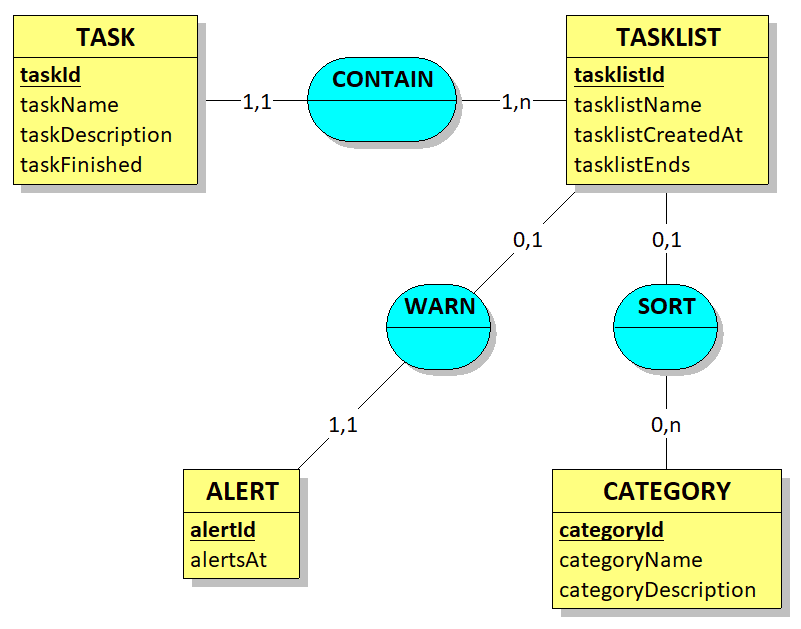
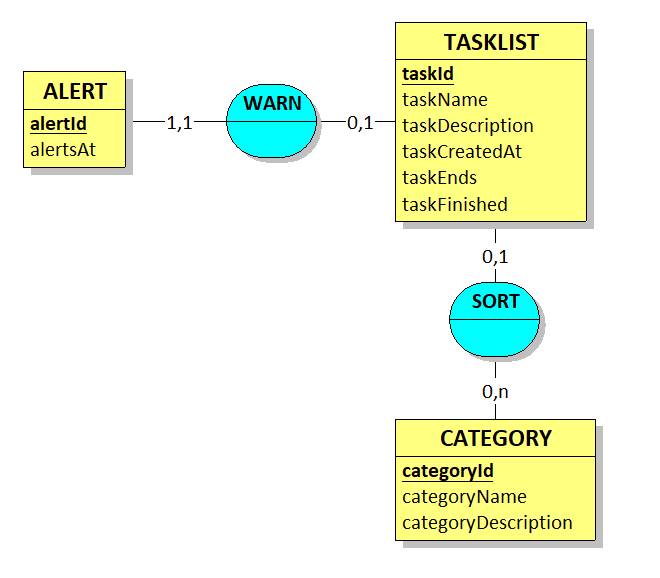
Remove TaskList from DB, rewrite some db related stuff

diff --git a/Sources/app/src/main/java/com/github/antoinejt/atodo/utils/DBUtils.java b/Sources/app/src/main/java/com/github/antoinejt/atodo/utils/DBUtils.java
@@ -7,8 +7,10 @@ import android.database.sqlite.SQLiteDatabase;
 import android.database.sqlite.SQLiteOpenHelper;
 
 import com.github.antoinejt.atodo.dataclasses.TaskItem;
+import com.github.antoinejt.exassert.Preconditions;
 
 import java.util.ArrayList;
+import java.util.Date;
 import java.util.List;
 
 public class DBUtils extends SQLiteOpenHelper {
@@ -16,7 +18,7 @@ public class DBUtils extends SQLiteOpenHelper {
     private final SQLiteDatabase wdb;
 
     public DBUtils(Context context) {
-        super(context, DATABASE_NAME , null, 4);
+        super(context, DATABASE_NAME, null, 5);
         this.wdb = getWritableDatabase();
     }
 
@@ -27,17 +29,11 @@ public class DBUtils extends SQLiteOpenHelper {
                         "taskId INTEGER NOT NULL PRIMARY KEY AUTOINCREMENT," +
                         "taskName TEXT NOT NULL," +
                         "taskDescription TEXT NOT NULL," +
-                        "taskListId INTEGER NOT NULL," +
+                        "taskCreatedAt DATETIME NOT NULL DEFAULT CURRENT_TIMESTAMP," +
+                        "taskEnds DATETIME NOT NULL," +
                         "taskFinished INTEGER NOT NULL DEFAULT 0 CHECK(taskFinished IN (0, 1)))"
         );
 
-        db.execSQL(
-                "CREATE TABLE TaskList (" +
-                        "tasklistId INTEGER NOT NULL PRIMARY KEY AUTOINCREMENT, " +
-                        "tasklistName TEXT NOT NULL," +
-                        "taskListCreatedAt DATETIME NOT NULL," +
-                        "taskListEnds DATETIME NOT NULL)"
-        );
         db.execSQL(
                 "CREATE TABLE Category(" +
                         "categoryId INTEGER NOT NULL PRIMARY KEY AUTOINCREMENT, " +
@@ -54,100 +50,85 @@ public class DBUtils extends SQLiteOpenHelper {
     @Override
     public void onUpgrade(SQLiteDatabase db, int oldVersion, int newVersion) {
         db.execSQL("DROP TABLE IF EXISTS Task");
-        db.execSQL("DROP TABLE IF EXISTS TaskList");
         db.execSQL("DROP TABLE IF EXISTS Category");
         db.execSQL("DROP TABLE IF EXISTS Alert");
         onCreate(db);
     }
 
-    public long createTaskList(String name, String createdAt, String end){
-        // TODO Test if it inserts correct taskListEnds values
+    public long createTask(String name, String description, Date deadline) {
         ContentValues contentValues = new ContentValues();
-        contentValues.put("taskListName", name);
-        contentValues.put("taskListCreatedAt", createdAt);
-        contentValues.put("taskListEnds", end);
-        return wdb.insert("TaskList", null, contentValues);
+        contentValues.put("taskName", name);
+        contentValues.put("taskDescription", description);
+        contentValues.put("taskEnds", deadline.getTime());
+        return wdb.insert("Task", null, contentValues);
     }
 
-    public long createTask(long taskListId, String taskName, String taskDescription) {
-        ContentValues contentValues = new ContentValues();
-        contentValues.put("taskName", taskName);
-        contentValues.put("taskDescription", taskDescription);
-        contentValues.put("taskListId", taskListId);
-        return wdb.insert("Task",null, contentValues);
-    }
-
-    public boolean createCategory(String categoryName, String categoryDescription){
+    public long createCategory(String categoryName, String categoryDescription) {
         ContentValues contentValues = new ContentValues();
         contentValues.put("categoryName", categoryName);
         contentValues.put("categoryDescription", categoryDescription);
-        wdb.insert("Category", null, contentValues);
-        return true;
+        return wdb.insert("Category", null, contentValues);
     }
 
-    public boolean createAlert(String alertsAt){
+    public long createAlert(String alertsAt) {
         ContentValues contentValues = new ContentValues();
         contentValues.put("alertsAt", alertsAt);
-        wdb.insert("Alert", null, contentValues);
-        return true;
+        return wdb.insert("Alert", null, contentValues);
     }
 
-    public Integer deleteTaskList(Integer id) {
-        return wdb.delete("TaskList", "tasklistId = ? ", new String[] { Integer.toString(id) });
+    public boolean deleteCategory(int id) {
+        Preconditions.requiresUnsigned(id);
+        return wdb.delete("Category", "categoryId = ? ", new String[]{Integer.toString(id)}) == 1;
     }
 
-    public Integer deleteCategory(Integer id) {
-        return wdb.delete("Category", "categoryId = ? ", new String[] { Integer.toString(id) });
+    public boolean deleteAlert(int id) {
+        Preconditions.requiresUnsigned(id);
+        return wdb.delete("Alert", "alertId = ? ", new String[]{Integer.toString(id)}) == 1;
     }
 
-    public Integer deleteAlert(Integer id) {
-        return wdb.delete("Alert", "alertId = ? ", new String[] { Integer.toString(id) });
+    public boolean deleteTask(int id) {
+        Preconditions.requiresUnsigned(id);
+        return wdb.delete("Task", "taskId = ? ", new String[]{Integer.toString(id)}) == 1;
     }
 
-    public Integer deleteTask(Integer id) {
-        return wdb.delete("Task", "taskId = ? ", new String[] { Integer.toString(id) });
-    }
+    public boolean updateTask(int id, String name, String description, Date deadline, boolean finished) {
+        Preconditions.requiresUnsigned(id);
 
-    public boolean updateTask(int id, String taskName, String taskDescription, String taskFinished) {
         ContentValues contentValues = new ContentValues();
-        contentValues.put("taskName", taskName);
-        contentValues.put("taskDescription", taskDescription);
-        contentValues.put("taskFinished", taskFinished);
-        wdb.update("Task", contentValues, "taskId = ?", new String[] { Integer.toString(id) });
-        return true;
-    }
+        contentValues.put("taskName", name);
+        contentValues.put("taskDescription", description);
+        contentValues.put("taskEnds", deadline.getTime());
+        contentValues.put("taskFinished", finished ? 1 : 0);
 
-    public boolean updateTaskList(int id, String taskName, String taskListCreatedAt, String end) {
-        ContentValues contentValues = new ContentValues();
-        contentValues.put("taskListName", taskName);
-        contentValues.put("taskListCreatedAt", taskListCreatedAt);
-        contentValues.put("taskListEnds", end);
-        wdb.update("TaskList", contentValues, "TaskList.tasklistId = ? ", new String[] { Integer.toString(id) });
-        return true;
+        return wdb.update("Task", contentValues, "taskId = ?", new String[]{Integer.toString(id)}) == 1;
     }
 
     public boolean updateCategory(int id, String categoryName, String categoryDescription) {
+        Preconditions.requiresUnsigned(id);
+
         ContentValues contentValues = new ContentValues();
         contentValues.put("categoryName", categoryName);
         contentValues.put("categoryDescription", categoryDescription);
-        wdb.update("Category", contentValues, "categoryId = ? ", new String[] { Integer.toString(id) });
-        return true;
+
+        return wdb.update("Category", contentValues, "categoryId = ? ", new String[]{Integer.toString(id)}) == 1;
     }
 
     public boolean updateAlert(int id, String alertsAt) {
+        Preconditions.requiresUnsigned(id);
+
         ContentValues contentValues = new ContentValues();
         contentValues.put("alertsAt", alertsAt);
-        wdb.update("Alert", contentValues, "alertId = ? ", new String[] { Integer.toString(id) });
-        return true;
+
+        return wdb.update("Alert", contentValues, "alertId = ? ", new String[]{Integer.toString(id)}) == 1;
     }
 
     public List<TaskItem> getTasks() {
         // wdb.query("Task", new String[] { "taskName", "taskDescription" }, null, null, null, null, null);
-        Cursor res =  wdb.rawQuery("SELECT taskName, taskDescription from Task", null);
+        Cursor res = wdb.rawQuery("SELECT taskName, taskDescription from Task", null);
         res.moveToFirst();
 
         List<TaskItem> taskItems = new ArrayList<>();
-        while(!res.isAfterLast()){
+        while (!res.isAfterLast()) {
             String name = res.getString(res.getColumnIndex("taskName"));
             String description = res.getString(res.getColumnIndex("taskDescription"));
 

diff --git a/Sources/app/src/main/java/com/github/antoinejt/atodo/activities/CreateTaskActivity.java b/Sources/app/src/main/java/com/github/antoinejt/atodo/activities/CreateTaskActivity.java
@@ -50,7 +50,7 @@ public class CreateTaskActivity extends AppCompatActivity implements View.OnClic
         return ((EditText) findViewById(id)).getText().toString();
     }
 
-    public enum TaskCreationStatus {
+    enum TaskCreationStatus {
         OK("Task saved correctly!"),
         EMPTY_FIELDS("Error: Some fields are empty!"),
         DATE_FORMAT("Error: Date format is incorrect!"),
@@ -70,9 +70,6 @@ public class CreateTaskActivity extends AppCompatActivity implements View.OnClic
     private TaskCreationStatus createTask() {
         //TODO Verify getApplicationContext / getBaseContext
         try (DBUtils db = new DBUtils(this.getApplicationContext())) {
-            final SimpleDateFormat sdf = new SimpleDateFormat("dd/MM/yyyy", Locale.getDefault());
-            final String currentDate = sdf.format(new Date());
-
             final List<Integer> fieldsId = Arrays.asList(
                     R.id.fieldTaskName,
                     R.id.fieldTaskEnd,
@@ -94,9 +91,8 @@ public class CreateTaskActivity extends AppCompatActivity implements View.OnClic
                 return TaskCreationStatus.DATE_FORMAT;
             }
 
-            final long taskListId = db.createTaskList(name, currentDate, deadline);
-            final boolean succeed = taskListId != -1
-                    && db.createTask(taskListId, name, description) != -1;
+            final SimpleDateFormat sdf = new SimpleDateFormat("dd/MM/yyyy", Locale.getDefault());
+            final boolean succeed = db.createTask(name, description, sdf.parse(deadline)) != -1;
 
             return succeed ? TaskCreationStatus.OK : TaskCreationStatus.ERROR;
         } catch (Exception e) {
